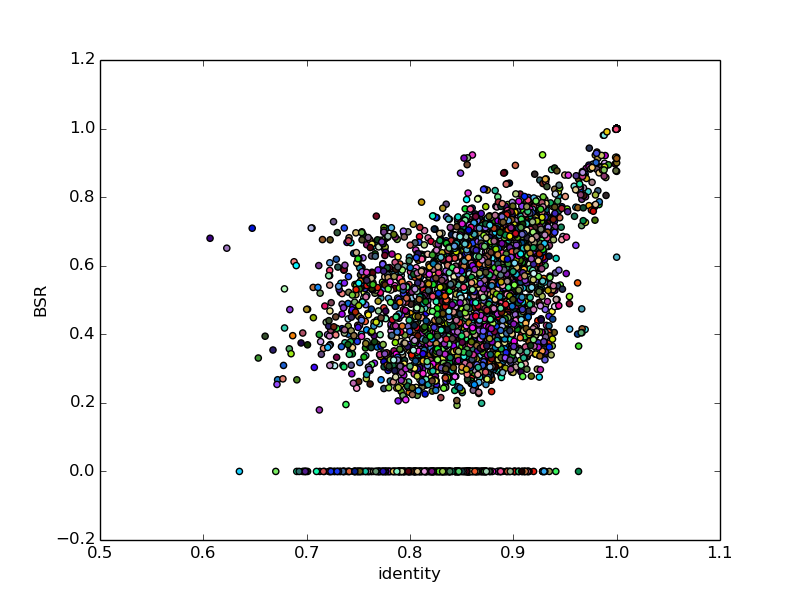
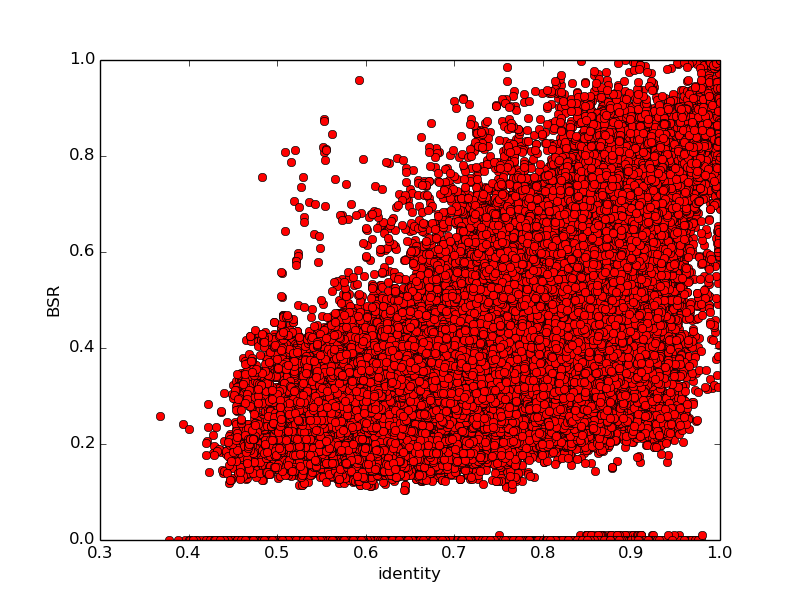
version 1.7

diff --git a/createPlot.py b/createPlot.py
@@ -9,6 +9,7 @@ import sys
 from datetime import datetime
 import numpy
 import string
+import matplotlib.pyplot as plt
 from pylab import *
 
 def main():
@@ -47,22 +48,25 @@ def main():
 
 	countIndexColor = 0
 
-	for i in range(amount/50):
-		scatter(x_values[i], y_values[i], c=arrayOfColors[countIndexColor])
-		countIndexColor+=1
-		if countIndexColor == len(arrayOfColors)-1:
-			countIndexColor = 0
+	print amount
+
+	#for i in range(amount):
+		#scatter(x_values, y_values, marker='o', color=arrayOfColors[countIndexColor], ls='')
+		#countIndexColor+=1
+		#print i
+		#if i == 1000:
+			#break
+		#if countIndexColor == len(arrayOfColors)-1:
+			#countIndexColor = 0
 	    #plot(x_values[i], y_values[i], color=numpy.random.rand(3,1))
 	#show()
 
-	#plot(x_values, y_values, marker='o', color='r', ls='')
+	plot(x_values, y_values, marker='o', color='r', ls='')
 	xlabel(args.xl)
 	ylabel(args.yl)
 
-	savefig('test.png')
-
-
-
+	#savefig('test.png')
+	show()
 
 
 def importData(filename):

diff --git a/BLAST_functions.py b/BLAST_functions.py
@@ -45,16 +45,15 @@ def run_BLAST(databaseFilePath, dbPath, queryFilePath, isProtDB, blast_out_file)
 
 	realdbPath = os.path.join(dbPath, databaseName)
 
-	print 'AQUI'
 	
 	Create_Blastdb(databaseFilePath, 0, isProtDB, realdbPath)
 	queryPath = os.path.join(os.getcwd(), queryFilePath)
 
 
 	if isProtDB:
-		cline = NcbiblastpCommandline(query=queryPath, db=realdbPath, out=blast_out_file, outfmt=5)
+		cline = NcbiblastpCommandline(query=queryPath, db=realdbPath, out=blast_out_file, outfmt=5, num_descriptions = 100000)
 	else:
-		cline = NcbiblastnCommandline(query=queryPath, db=realdbPath, out=blast_out_file, outfmt=5)
+		cline = NcbiblastnCommandline(query=queryPath, db=realdbPath, out=blast_out_file, outfmt=5, num_descriptions = 100000)
 
 	os.system(str(cline))
 
